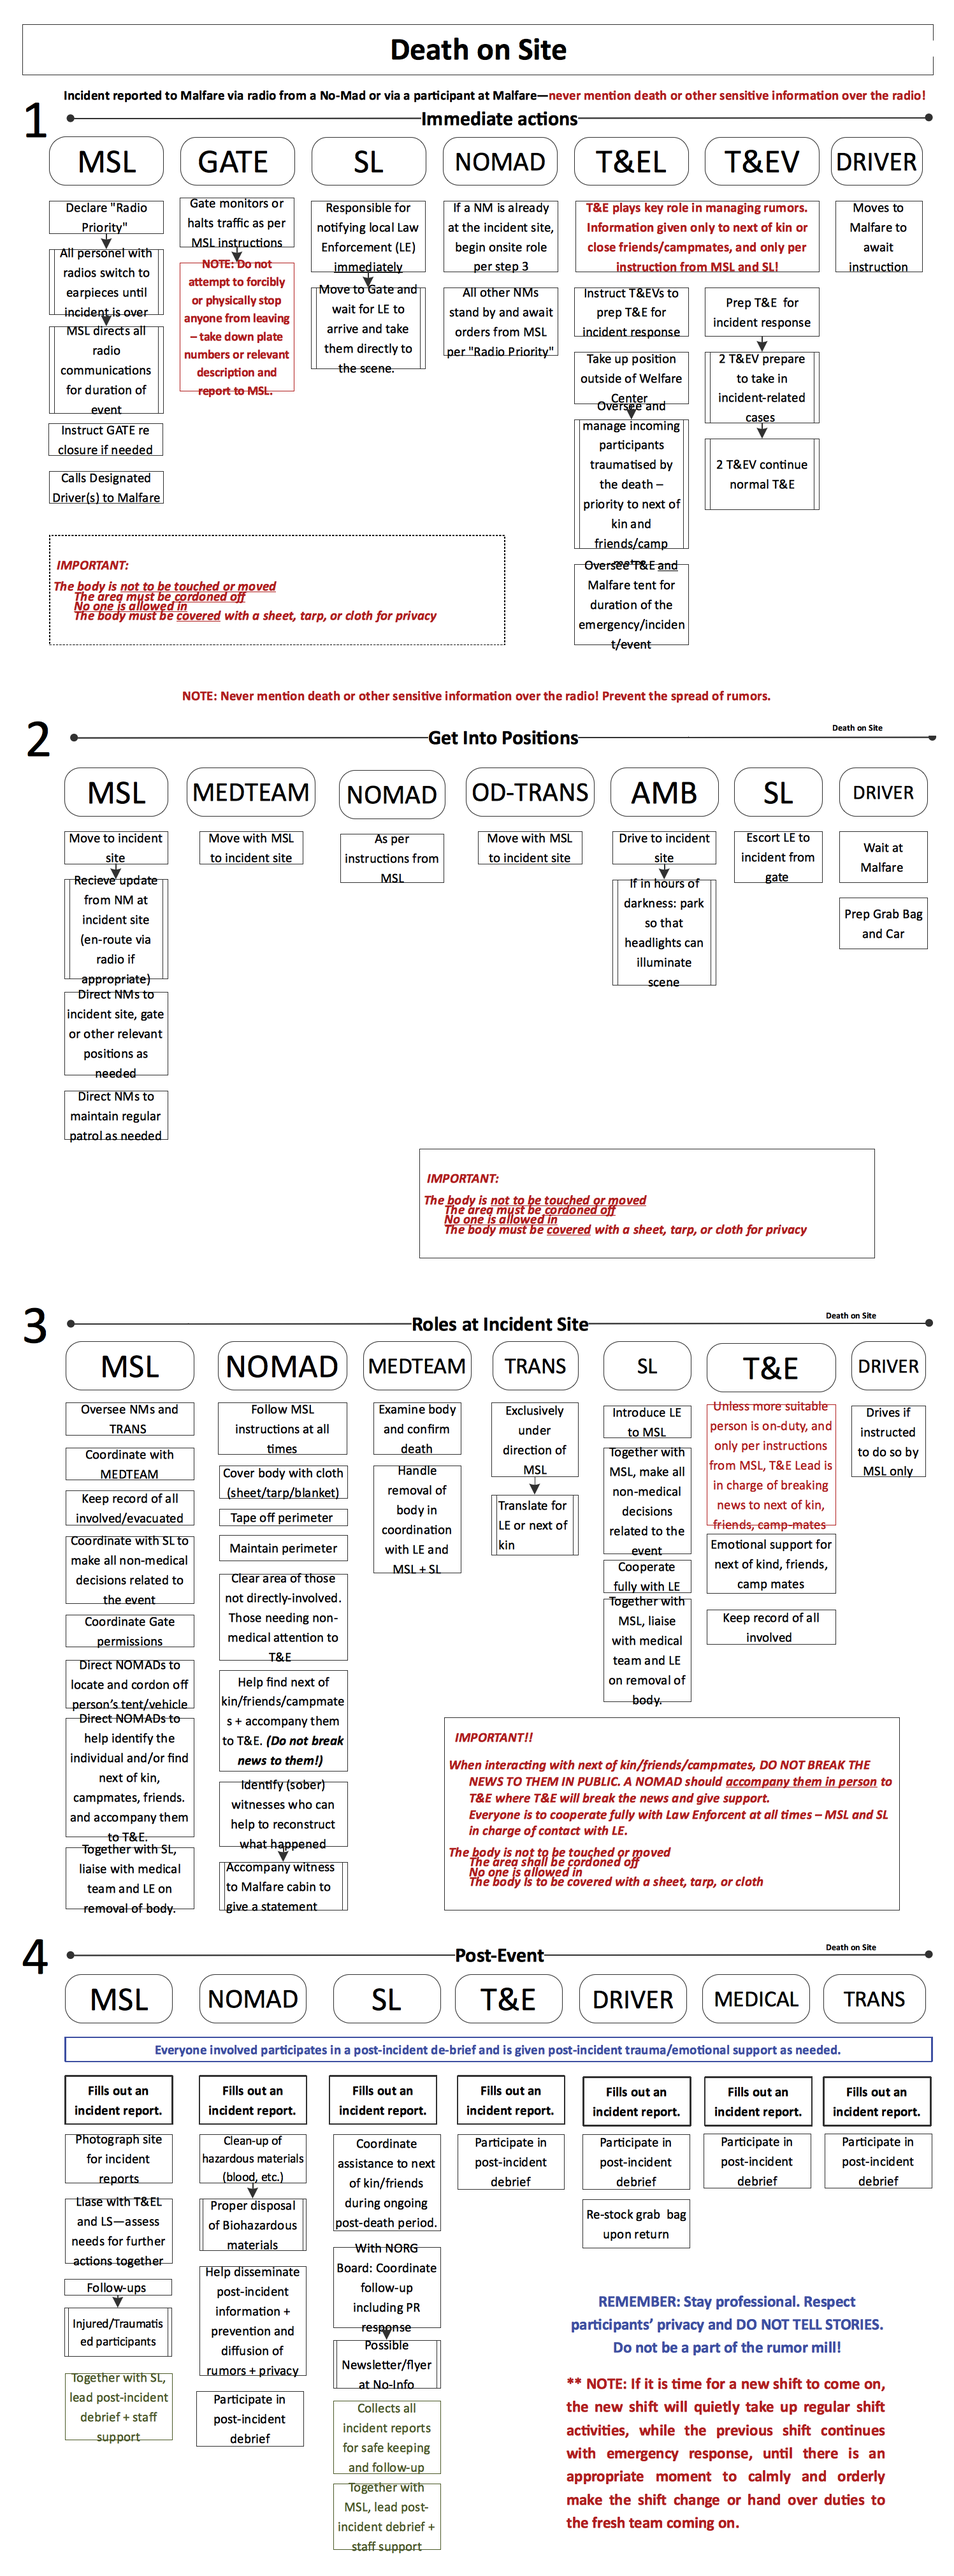
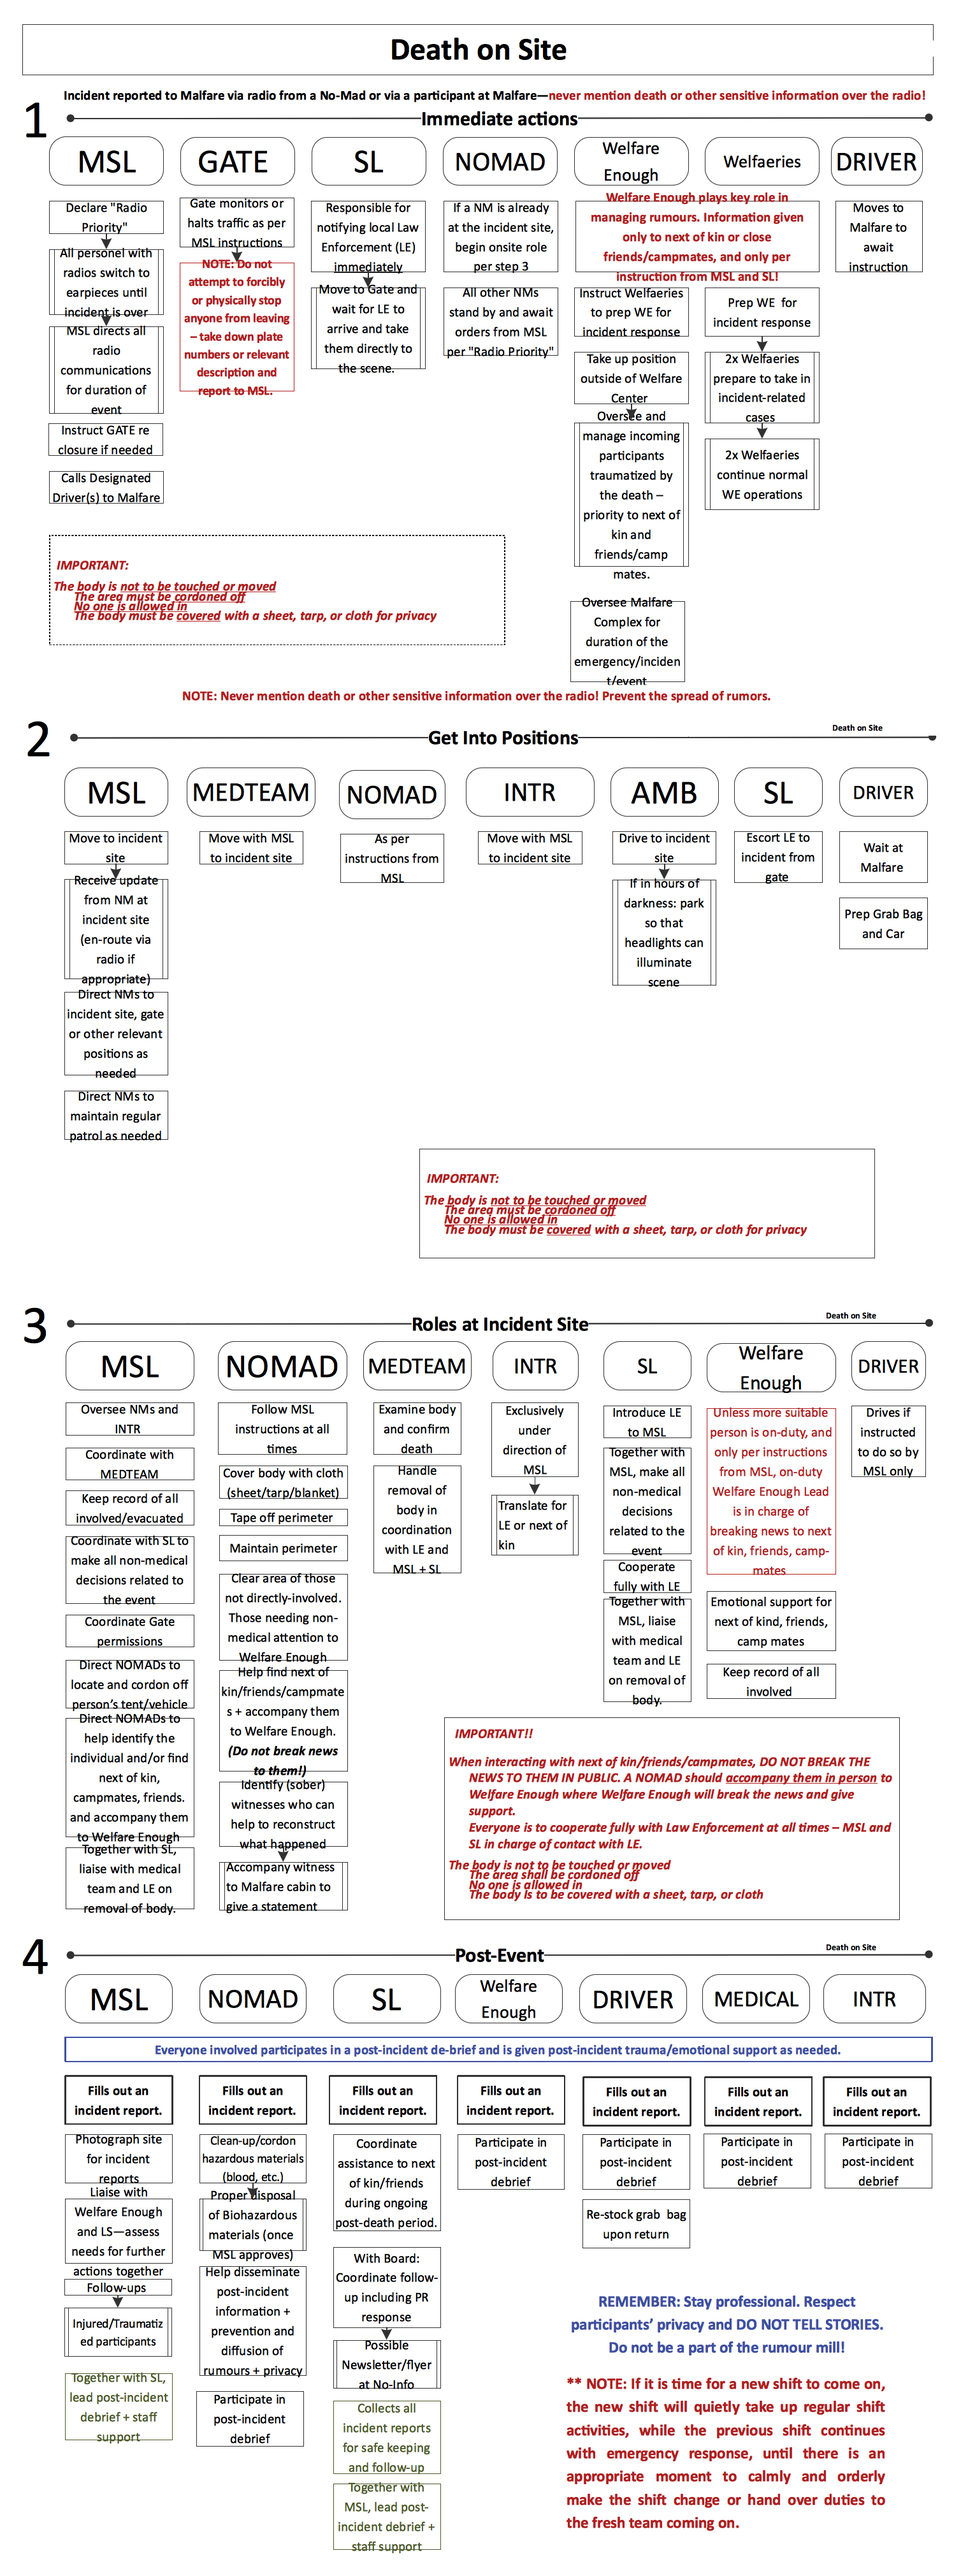
update protocol images to fit with visio updates

diff --git a/protocols/en/multi-casualty_accident/index.md b/protocols/en/multi-casualty_accident/index.md
@@ -30,10 +30,6 @@ to varying degrees of multiple participants
     contained &ndash; all team members to actively assist in this.
 
 
-![Multi casualty incident](img/mcic-1.png "multi-person casualty incident 1")
-![Multi casualty incident](img/mcic-2.png "multi-person casualty incident 2")
-![Multi casualty incident](img/mcic-3.png "multi-person casualty incident 3")
-![Multi casualty incident](img/mcic-4.png "multi-person casualty incident 4")
-![Multi casualty incident](img/mcic-5.png "multi-person casualty incident 5")
+![Multi casualty incident](img/mcic.png "multi-person casualty incident")
 
 
